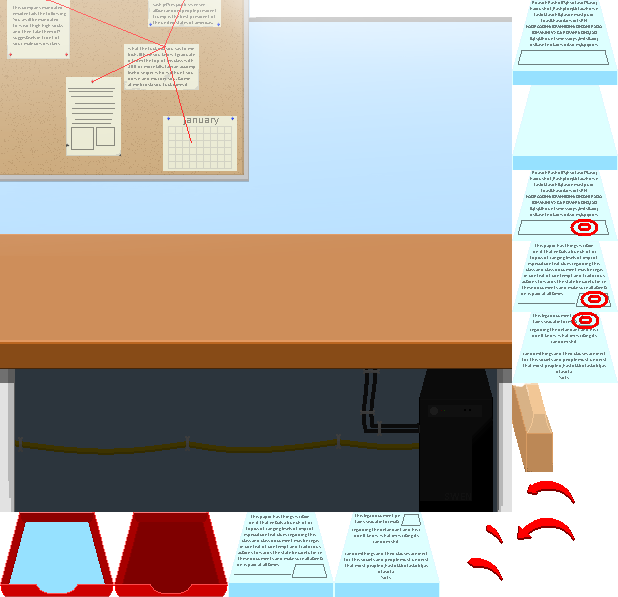
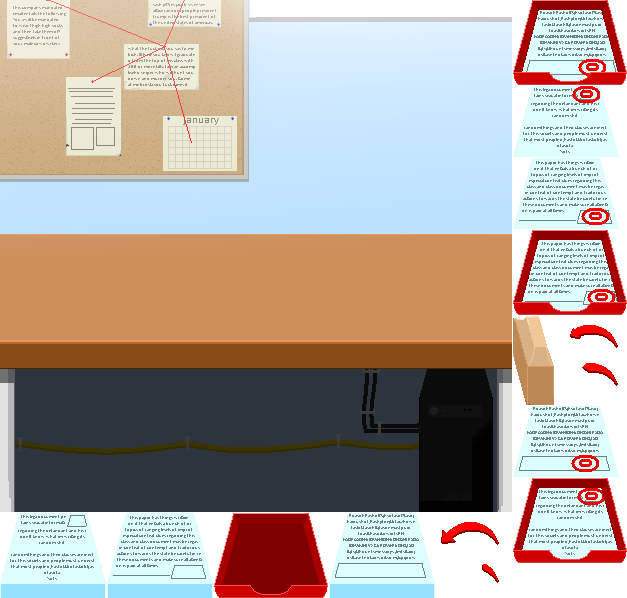
Updated state and atlas with the new tray sprites

diff --git a/myGame/js/stamping.js b/myGame/js/stamping.js
@@ -23,7 +23,7 @@ stamping.prototype = {
 
 		//create 30 second timer for the stage
 		stageTimer = game.time.create(false);
-		stageTimer.add(30000,function(){console.log('fired'), game.state.start('alarmClock')},game);
+		stageTimer.add(30000,function(){game.state.start('alarmClock')},game);
 		stageTimer.start();
 
 		//add paper stack
@@ -40,14 +40,16 @@ stamping.prototype = {
 		game.physics.arcade.enable(stamp);
 		stamp.input.boundsRect = bg.getBounds();
 
+		//create an area for the stamp
 		returnStamp = new Phaser.Rectangle(stamp.body.x,stamp.body.y,stamp.width,stamp.height);
     	
 
 		//add bin for finished stamps
-		bin = this.add.sprite(game.world.centerX-180,game.world.centerY-10,'stampAtlas','tray001');
+		bin = this.add.sprite(game.world.centerX-180,game.world.centerY-10,'stampAtlas','trayEmpty');
 		game.physics.arcade.enable(bin);
 		bin.anchor.setTo(0.5,0);
 
+		//this is the tutorial sprite that appears for the first actions on day 1
 		if(day==1){
 			arrow1 = this.add.sprite(game.world.centerX+102,game.world.centerY,'stampAtlas','instructionArrow001');
 			arrow1.anchor.setTo(0.5,0.5);
@@ -55,59 +57,66 @@ stamping.prototype = {
 			arrow1.animations.play('arrow1');
 		}
 
-
-
-
+		//initialize the sound effects in the game
 		stampedSound = game.add.audio('stamped');
 		pickPaperSound = game.add.audio('pickPaper');
 		placePaperSound = game.add.audio('placePaper');
 		damagedSound = game.add.audio('damaged');
 
-		//variables to make sure creation and scoring only happen once per action
+		//variables to track the first actions for the tutorial
 		this.firstTryStamp = true;
 		this.firstTryBin = true;
+		//variable to track the current image we're on
 		this.sheetTrack = 1;
+		//these two variables are to make sure things only happen once during update
 		this.topSheet = true;
 		this.scoreAble = true;
+		//condition to if the player scores or loses health
 		this.returned = true;
+		//the color the return area
 		this.returnColor = 'rgba(0,255,0,20)';
 
-		//to display the score
+		//to display the score and Health
 		scoreDisplay = new Score();
-		healthDisplay = new Health;
+		healthDisplay = new Health();
 	},
 	update: function(){
 		if(returnStamp.intersects(stamp.getBounds())){
+			//if the stamp is back change return area to green
 			this.returnColor = 'rgba(0,255,0,20)';
 		  	this.returned = true;
 		}
 
 		else{
+			//if not make it red
 			this.returnColor = 'rgba(255,0,0,20)';
 			this.returned = false;
 		}
 
+		//display the tutorial if it's day 1
 		if(day==1){
 			this.tutorial();
 		}
 
-
+		//stamp the paper when the stamp intersects the stack of papers
 		if(game.physics.arcade.collide(stamp,paper)&&this.topSheet){
 			this.topSheet=false;
 			this.createSheet();
 			stampedSound.play('',0,0.75,false);		
 		}
+		//place the stamped paper into the bin
 		if(game.physics.arcade.overlap(this.sheet,bin)){
 			this.enterBin();
 		}
 	},
+
 	render: function(){
-		//game.debug.body(paper);
-		//game.debug.body(bin);
-		//we use this to draw the return range
+		//we use this to draw the return area
 		game.debug.geom(returnStamp,this.returnColor,false);
 	},
+
 	createSheet: function(){
+		//this is if else chain changes the current sprite of the paper stack and the paper sheet
 		if(this.sheetTrack%3==1){
 			this.sheet = this.add.sprite(paper.centerX,paper.y+34,'stampAtlas','paperStamped001');
 			paper.loadTexture('stampAtlas','paper002');
@@ -121,34 +130,41 @@ stamping.prototype = {
 			paper.loadTexture('stampAtlas','paper001');
 		}
 		
+		//so we can check it if collides with the bin
 		game.physics.arcade.enable(this.sheet);
 
-
-
-
 		this.sheet.anchor.setTo(0.5,0.5);
+		//let us be able to drag it
 		this.sheet.inputEnabled = true;
 		this.sheet.input.enableDrag(true);
+		//play a sound
 		this.sheet.events.onDragStart.add(function(){pickPaperSound.play('',0,1,false)},this);
 		this.scoreAble = true;
 		this.sheetTrack++;
 	},
 	enterBin: function(){
+		//if they return the stamp before putting the sheet in they get point
 		if(this.returned){
-			this.sheet.body = false;
-			this.sheet.x = bin.x;
-			this.sheet.y = bin.y+36;
+			this.sheet.destroy();
 			this.topSheet = true;
-			this.sheet.input.draggable = false;
+			//change the tray sprite to reflect the last paper in
+			if(this.sheetTrack%3==2){
+				bin.loadTexture('stampAtlas','tray001');
+			}
+			else if(this.sheetTrack%3==0){
+				bin.loadTexture('stampAtlas','tray002');
+			}
+			else if(this.sheetTrack%3==1){
+				bin.loadTexture('stampAtlas','tray003');
+			}
 			if(this.scoreAble){
 				score += 10;
 				this.scoreAble = false;
 				placePaperSound.play('',0,2,false);
 			}
 		}
+		//if not they lose health and that sheet doesn't count
 		else {
-			//this.sheet.body.x = bin.x-(this.sheet.width/2);
-			//this.sheet.body.y = bin.y;
 			this.sheet.destroy();
 			this.topSheet = true;
 			this.sheet.input.draggable = false;
@@ -156,11 +172,11 @@ stamping.prototype = {
 				health -=5;
 				this.scoreAble = false;
 				damagedSound.play('',0,1,false);
-				placePaperSound.play('',0,2,false);
 			}
 		}
 	},
 
+	//display the tutorial sprite, going through each step.
 	tutorial: function(){
 		if(this.firstTryStamp&&!this.topSheet){
 			arrow1.scale.setTo(-1,1);
